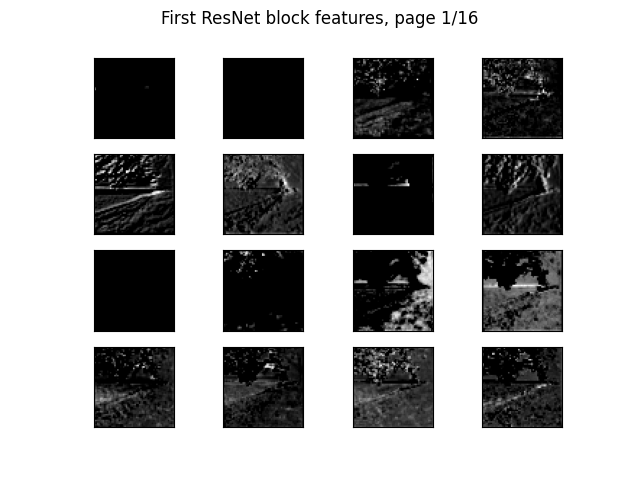
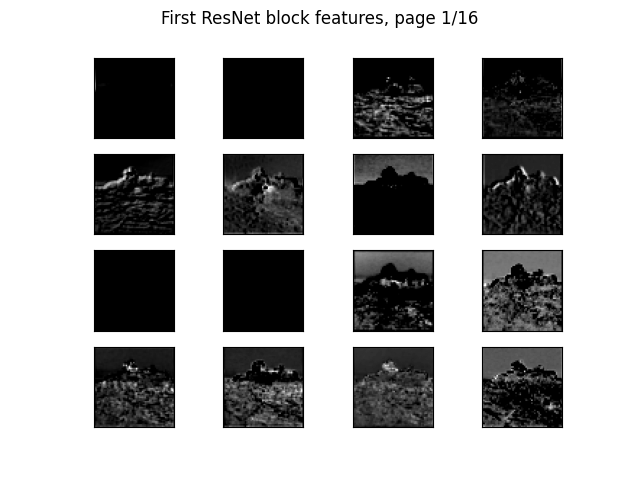
specific features

diff --git a/FeatureVisualizer.py b/FeatureVisualizer.py
@@ -40,7 +40,7 @@ model = tf.ResNetForImageClassification.from_pretrained("./resultsHPC/checkpoint
 bestPic = df[df['Logscore']==df['Logscore'].max()]
 worstPic = df[df['Logscore']==df['Logscore'].min()]
 
-dummyX = torch.reshape(torch.as_tensor(processor(Image.open(worstPic["Filename"][worstPic.ID.index[0]]))["pixel_values"][0]).float(), (-1, 3, 224, 224)).cuda()
+dummyX = torch.reshape(torch.as_tensor(processor(Image.open(bestPic["Filename"][bestPic.ID.index[0]]))["pixel_values"][0]).float(), (-1, 3, 224, 224)).cuda()
 plt.imshow(torch.Tensor.cpu(dummyX[0].permute(1, 2, 0)))
 plt.show()
 plt.clf()
@@ -59,7 +59,20 @@ filters1_5 = torch.Tensor.cpu(firstPointFifthLayerOutput)
 
 print("Shapes of filters: " + str(filters.shape) + ", " + str(filters2.shape) + ", " + str(filters3.shape) + ", " + str(filters4.shape) + ", " + str(filters1_5.shape))
 
+plt.imshow(filters[0,  25, :, :].detach().numpy(), cmap='gray')
+plt.savefig("ExtractedFeatures/BestPicEmbLayFilter26.png")
+plt.show()
+plt.clf()
 
+plt.imshow(filters[0,  50, :, :].detach().numpy(), cmap='gray')
+plt.savefig("ExtractedFeatures/BestPicEmbLayFilter51.png")
+plt.show()
+plt.clf()
+
+plt.imshow(filters[0,  63, :, :].detach().numpy(), cmap='gray')
+plt.savefig("ExtractedFeatures/BestPicEmbLayFilter64.png")
+plt.show()
+plt.clf()
 
 square = 4
 

diff --git a/GANStats.py b/GANStats.py
@@ -1,0 +1,13 @@
+import pandas as pd
+import numpy as np
+
+txtfile = open("order.txt","r")
+lines = txtfile.readlines()
+
+lines = [e[:-1] for e in lines[1:]]
+translator = [{int(i): int(e) for i, e in enumerate(line.split(":"))} for line in lines]
+
+
+df = pd.read_csv("FormResponses.csv")
+df = df[df["Consent"] == "I consent"]
+print(df)
